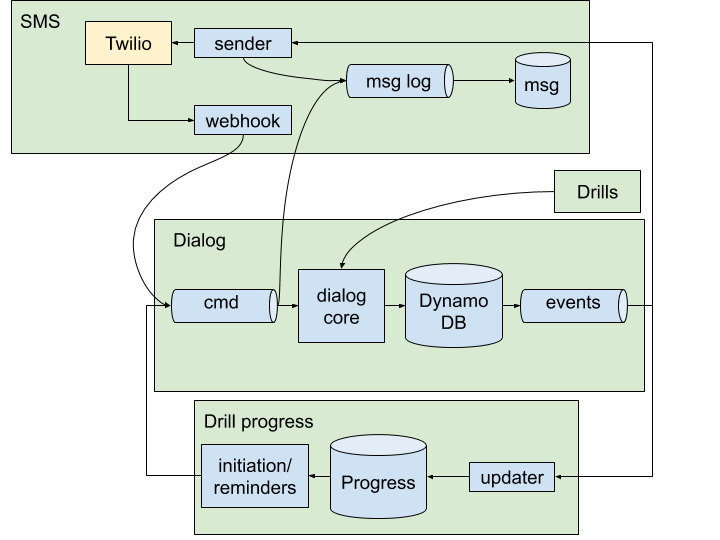
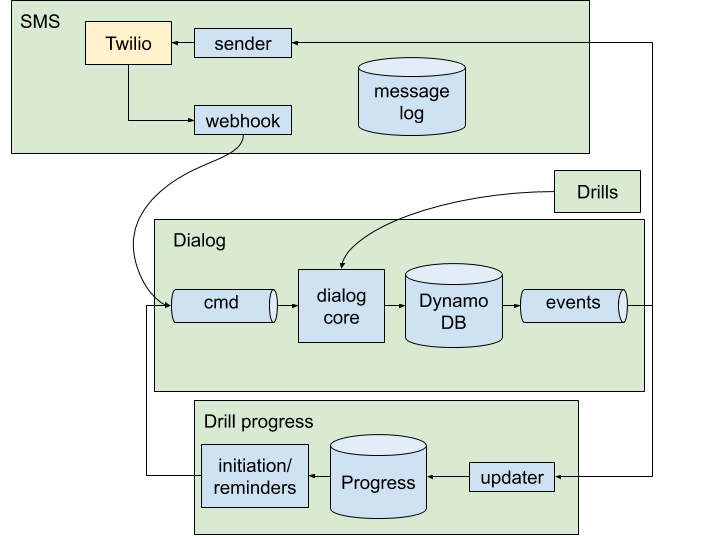
details on message logging, updated diagrams

Changed region(s): [[0.4278, 0.0889, 0.6722, 0.2667], [0.7028, 0.0889, 0.7944, 0.2074], [0.3667, 0.1185, 0.4278, 0.1481]]

diff --git a/docs/sms.md b/docs/sms.md
@@ -10,7 +10,7 @@ Inbound messages are messages from users to the stopCOVID system. All inbound me
 
 Outbound messages are messages from the stopCOVID system to users. Currently all outbound messages are triggered by events from the Dialog Context.
 
-![outbound SMS](sms_context_inbound.png)
+![outbound SMS](sms_context_outbound.png)
 
 Our dialog event processor reads from the event stream and enqueues message sending commands to an SQS FIFO queue. Our "SMS sender" sends messages from that queue to Twilio.
 
@@ -20,12 +20,21 @@ We had two reasons for introducing an SQS queue:
 * The SQS queue allows us to parallelize message sending more if we need o.
 
 ## Message logging
-sdgsg
+
+We maintain a log of SMS delivery events, both inbound and outbound, in a kinesis stream. We then write the contents of that stream to a SQL database for easy querying.
+
+There are three types of messages, which we obtain in three different ways:
+
+* `OUTBOUND_SMS`: Logged by our [SMS sender](../stopcovid/sms/aws_lambdas/send_sms_batch.py) after sending messages to Twilio.
+* `INBOUND_SMS`: Logged by our [Inbound SMS logger](../stopcovid/sms/aws_lambdas/log_inbound_sms.py), which listens to the dialog command stream.
+* `STATUS_UPDATE`: Logged by the [twilio webhook](../stopcovid/sms/aws_lambdas/twilio_webhook.py).
+
+![message logging](sms_message_logging.png)
 
 ## Components
 
 * [Twilio webhook](../stopcovid/sms/aws_lambdas/twilio_webhook.py): A lambda reachable via Amazon's API Gateway.
 * [Event stream processor](../stopcovid/sms/aws_lambdas/enqueue_sms_batch.py) that enqueues commands to send SMS messages into an SQS FIFO queue.
 * [SMS sender](../stopcovid/sms/aws_lambdas/send_sms_batch.py) that sends SMS commands to twilio.
-* [Inbound SMS logger](../stopcovid/sms/aws_lambdas/log_inbound_sms.py) that reads 
+* [Inbound SMS logger](../stopcovid/sms/aws_lambdas/log_inbound_sms.py) that listens to the dialog command stream and logs inbound SMS messages
 * [Log persister](../stopcovid/sms/aws_lambdas/persist_logs.py) that records message log entries in a SQL database.
